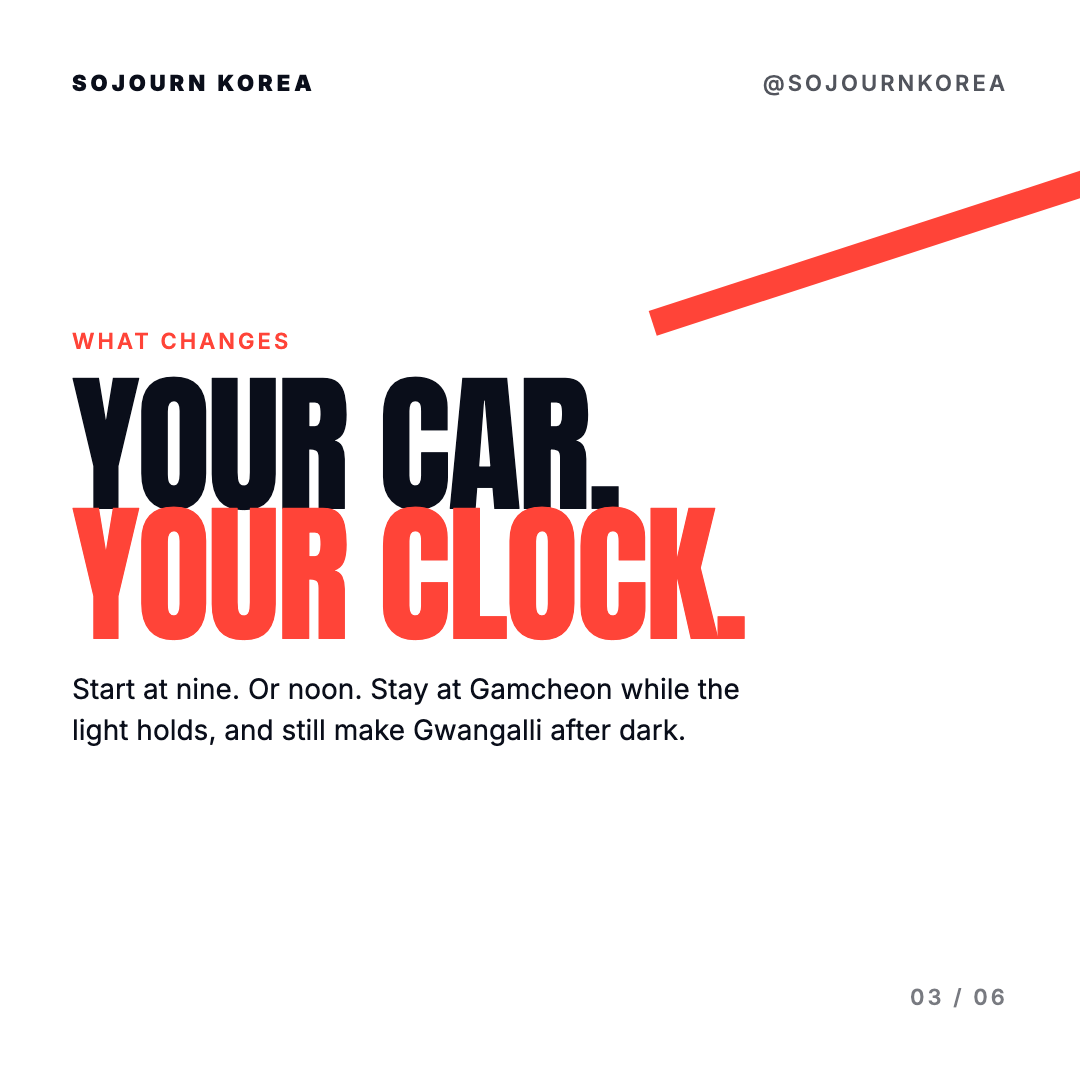
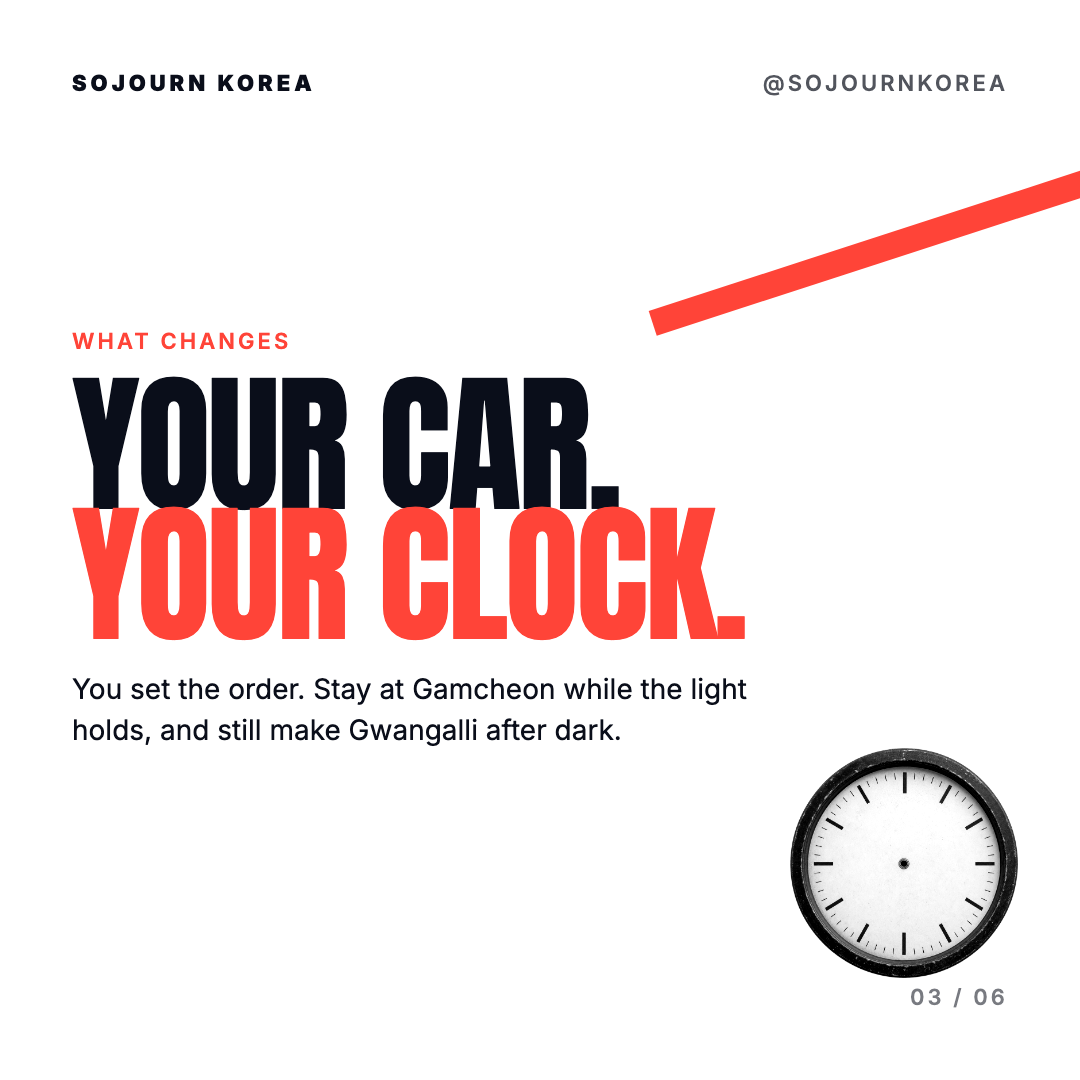
fix(cards): clear QA blockers and majors, re-render the set
The blocker was card 03's "Start at nine. Or noon." The landing page carries no
clock times at all — only "half or full day" and "flexible durations" — so the
line promised operating hours nobody had verified. It came down from the brief's
card_skeleton, not from a producer's slip, so the ledger is fixed first and
banned_extra now names start/end times to stop it regenerating. New copy is
"You set the order.", which keeps the meaning and rests on facts[5].

Also: www. restored on card 06's CTA URL (the apex 308-redirects), card 02's
pager made legible, cards 04 and 06 cut back to a single accent inside the 15%
ceiling, and card 06's CTA lifted out of the bottom crop guard. Three of those
fixes live in brand.css and so apply to every future set.

The card 03 clock is drawn without hands on purpose. The first generation put
them at 9:10 — the exact claim the copy fix had just removed — which is what
ADR-013 is about.

Changed region(s): [[0.0611, 0.6111, 0.7028, 0.7028], [0.7333, 0.6722, 0.9472, 0.9167], [0.825, 0.7944, 0.8556, 0.825]]

diff --git a/_workspace/03_cards.html b/_workspace/03_cards.html
@@ -53,7 +53,19 @@
 
   <div class="label" style="color:var(--coral)">WHAT CHANGES</div>
   <div class="display d-l t-solid">YOUR CAR.<br><span class="t-accent">YOUR CLOCK.</span></div>
-  <p class="body">Start at nine. Or noon. Stay at Gamcheon while the light holds, and still make Gwangalli after dark.</p>
+  <!-- No clock times here. The landing page states no hours anywhere and the
+       brief ledger marks exact durations UNVERIFIED, so "start at nine / noon"
+       was an unbacked operating-hours claim (QA B2). The promise is the order
+       of the day, which facts[5] (private car + custom itinerary) does back. -->
+  <p class="body">You set the order. Stay at Gamcheon while the light holds, and still make Gwangalli after dark.</p>
+
+  <!-- The dial is deliberately handless. The first generation drew hands at ~9:10
+       on its own, which re-stated the operating-hours claim QA killed in B2 — an
+       image can assert a fact the ledger does not carry just as a sentence can.
+       Placed clear of the body text (right edge x792) and the pager (y>=986). -->
+  <div class="photo photo-cut photo-mono" style="right:60px;bottom:102px;width:230px;height:230px">
+    <img src="../assets/photos/concept/clock-no-hands.png" data-photo="concept/clock-no-hands.png" data-slot="concept" alt="A wall clock with no hands">
+  </div>
 
   <div class="pager">03 / 06</div>
 </section>
@@ -64,7 +76,10 @@
   <div class="blob dot" style="right:-70px;bottom:150px"></div>
 
   <div class="display d-l t-sand">THREE<br><span class="t-outline">ROUTES</span></div>
-  <div class="quote-box">
+  <!-- shadow-sand: the default coral shadow made this card carry two accents
+       (coral 1.86% + sand 6.03%). Sand is the dominant one here, so the box
+       follows it. -->
+  <div class="quote-box shadow-sand">
     <p class="body">Busan Highlights, a full day.<br>Markets &amp; Food, a half day.<br>Coast &amp; Culture, a half day.</p>
     <p class="attrib">Seoul routes and cruise-port days too.</p>
   </div>
@@ -89,15 +104,28 @@
 <section class="card bg-grad lay-cta">
   <div class="lockup"><span class="mark">SOJOURN KOREA</span><span class="handle">@sojournkorea</span></div>
 
-  <div class="display d-l t-solid">TELL US<br><span class="t-sand">YOUR DAY</span></div>
+  <!-- t-outline, not t-sand: the coral CTA band is already this card's accent,
+       and a sand second line made it two (QA M4). Outline keeps the two display
+       lines on different treatments without spending another colour. -->
+  <div class="display d-l t-solid">TELL US<br><span class="t-outline">YOUR DAY</span></div>
   <p class="sub" style="margin-top:28px;max-width:560px">We build the route around it.</p>
   <p class="label" style="margin-top:44px;opacity:0.7">BUSAN · SEOUL · CRUISE PORTS</p>
   <div class="blob ring" style="right:-90px;bottom:250px"></div>
 
   <div class="cta-band">
     <span class="go">Book a private day</span>
-    <span class="url">sojournkorea.net/private-tour</span>
+    <!-- www. is not optional: the apex 308-redirects, and this is the only card
+         that shows a URL people will retype by hand. -->
+    <span class="url">www.sojournkorea.net/private-tour</span>
   </div>
+
+  <!-- QA m5. Five of six cards carried an index, so the sixth reading as an
+       omission rather than a rule. 06 / 06 also signals the end of the carousel,
+       which helps the CTA rather than competing with it. Standard position, no
+       ink override: the band's bottom edge is y952 and the pager's top is y986,
+       and white at 0.55 clears contrast on the deep-blue gradient (unlike
+       .lay-split, where a white plane sits under the same spot). -->
+  <div class="pager">06 / 06</div>
 </section>
 
 </body>

diff --git a/.claude/skills/cardnews-render/assets/brand.css b/.claude/skills/cardnews-render/assets/brand.css
@@ -76,6 +76,12 @@ body {
   z-index: 5;
 }
 
+/* .lay-split floods the bottom-right corner with a light .half-bottom, but the
+   pager inherits the CARD colour (white on bg-blue) and sits above it at
+   z-index 5 — white on white, index gone. Any layout that puts a light plane
+   under the pager must pin it to ink. */
+.card.lay-split .pager { color: var(--ink); }
+
 /* ---------- typography ---------- */
 
 .display {
@@ -205,6 +211,10 @@ body {
   max-width: 760px;
   box-shadow: 24px 24px 0 var(--coral);
 }
+/* One accent per card. When the display type on a quote card is already sand,
+   the default coral shadow makes it two — use this instead. Mirrors
+   .photo-frame.shadow-sand. */
+.lay-quote .quote-box.shadow-sand { box-shadow: 24px 24px 0 var(--sand); }
 .lay-quote .quote-box .body { font-size: 34px; }
 .lay-quote .attrib { margin-top: 32px; font: 600 24px/1.3 var(--text); opacity: 0.6; }
 
@@ -228,22 +238,46 @@ body {
 .lay-steps .step .t { display: block; font: 700 42px/1.15 var(--text); }
 .lay-steps .step .d { display: block; font: 400 26px/1.35 var(--text); opacity: 0.75; margin-top: 8px; }
 
-/* 06 CTA — bottom band */
+/* 06 CTA — coral plate.
+   Two constraints set this geometry, and both were learned the hard way:
+
+   1. Crop guard. Anchored at bottom:0 with height:200px and centred text, the
+      CTA line landed at y957–1003 — over half of it inside the bottom 100px
+      that Instagram's grid crop eats. The band now floats above the guard so
+      the conversion line and the URL survive the crop.
+   2. Accent area. A full-bleed 200px band is 1080x200 = 18.5% coral on its own,
+      past the 15% ceiling before a single other coral pixel. Insetting to the
+      safe area and shortening it puts the plate at 936x160 = 12.8%.
+
+   Do not re-anchor this to bottom:0. Either failure is invisible in the HTML
+   and only shows up in a pixel measurement of the finished PNG.
+
+   The two lines stack instead of sitting left/right. Measured: the CTA verb is
+   413px at 46px and the full www. URL is 537px at 28px — 950px of text that no
+   band narrow enough to satisfy the accent cap can hold on one row. Side by
+   side they shrink and the URL breaks mid-word at its hyphen, which is the one
+   thing on this card that must survive intact. Shrink-to-fit width (left set,
+   right auto) keeps the plate tight around the text instead of padding it out
+   with dead coral. */
 .lay-cta { display: flex; flex-direction: column; padding: var(--pad); padding-top: 190px; }
 .lay-cta .cta-band {
   position: absolute;
-  left: 0; right: 0; bottom: 0;
-  height: 200px;
+  left: var(--pad);
+  bottom: 128px;
+  max-width: calc(100% - var(--pad) * 2);
   background: var(--coral);
   color: var(--white);
   display: flex;
-  align-items: center;
-  justify-content: space-between;
-  padding: 0 var(--pad) 0 var(--pad);
+  flex-direction: column;
+  align-items: flex-start;
+  justify-content: center;
+  gap: 14px;
+  padding: 40px 48px;
   z-index: 4;
 }
 .lay-cta .cta-band .go { font: 900 46px/1 var(--text); letter-spacing: -0.01em; }
-.lay-cta .cta-band .url { font: 600 28px/1 var(--text); letter-spacing: 0.06em; opacity: 0.9; }
+/* nowrap is load-bearing, not cosmetic: a wrapped URL is a mistyped URL. */
+.lay-cta .cta-band .url { font: 600 28px/1 var(--text); letter-spacing: 0.06em; opacity: 0.9; white-space: nowrap; }
 
 /* ---------- photos ----------
    Every <img> inside .photo needs data-photo="<key in assets/photos/manifest.json>"
